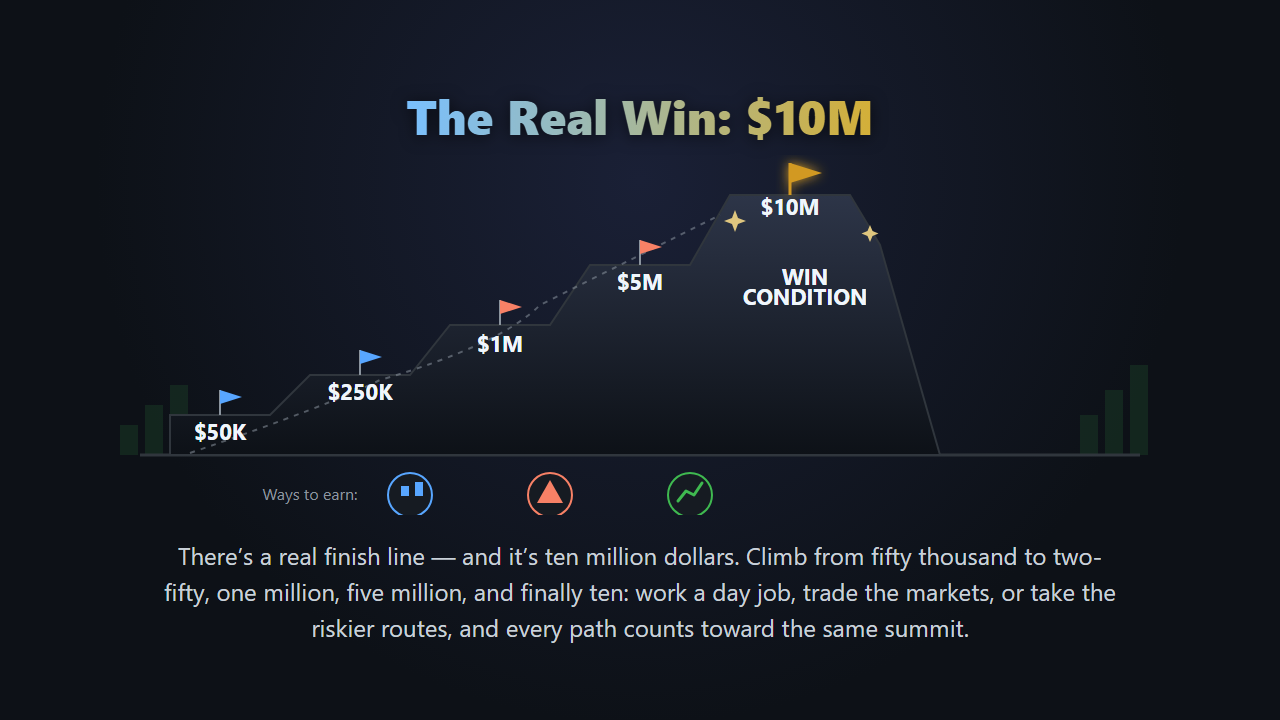
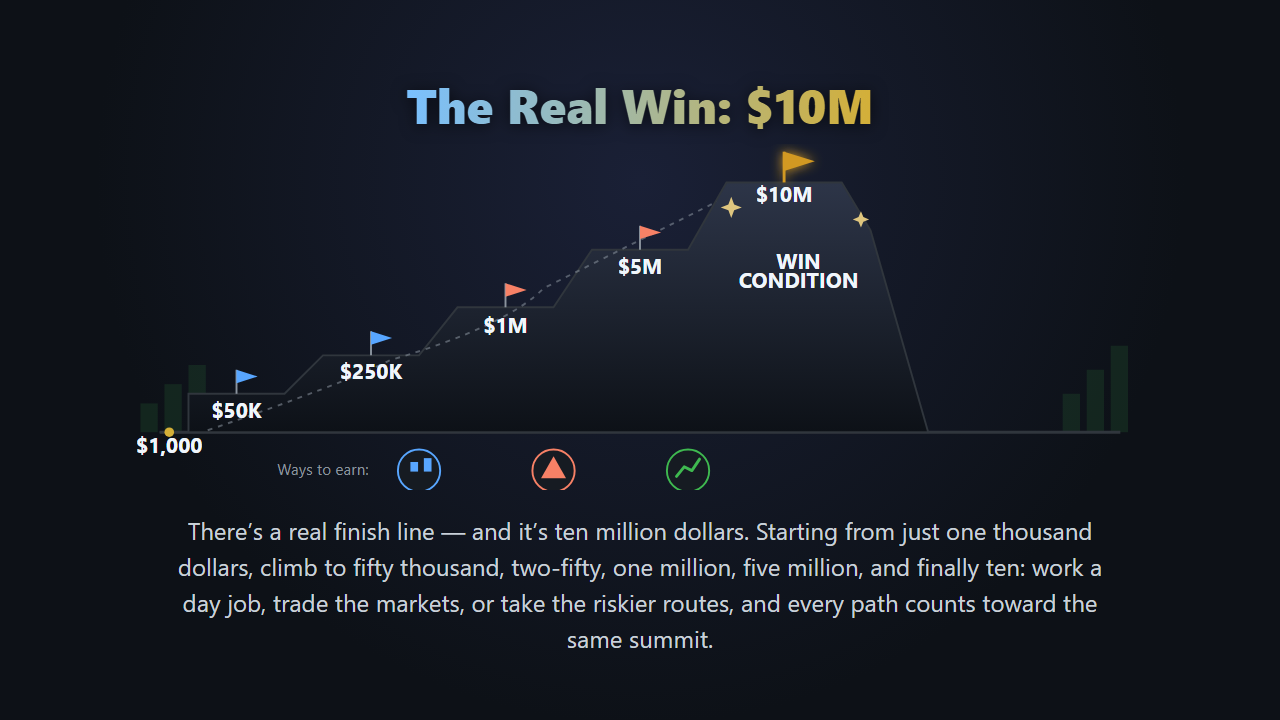
Set $1,000 starting capital on slides 1/4; rescope slide 6 to crime/dating-sim/interiors
Slides 1 and 4 now show the game starting from $1,000 net worth instead of
$0. Slide 6 drops the 30-day clock and win cutscene in favor of three
deeper-scope panels (crime system, dating sim, building interiors) while
keeping the six-item punch list, with project_proposal.md updated to match
the rescoped plan.

Claude-Session: https://claude.ai/code/session_01FPTtyZgp1csAeMHyfhBxcm

diff --git a/slides/slide_6.html b/slides/slide_6.html
@@ -2,7 +2,7 @@
 <html>
 <head>
 <meta charset="utf-8">
-<title>Slide 6 - What's Next: Fixes, a Clock, an Ending</title>
+<title>Slide 6 - What's Next: Crime, Dating Sim, Interiors</title>
 <style>
   body {
     margin: 0;
@@ -40,7 +40,7 @@
 </style>
 </head>
 <body>
-  <h1>What's Next: Fixes, a Clock, an Ending</h1>
+  <h1>What's Next: Crime, Dating Sim, Interiors</h1>
   <svg width="1140" height="400" viewBox="0 0 1140 400">
     <defs>
       <linearGradient id="panelGradient" x1="0" y1="0" x2="0" y2="1">
@@ -65,61 +65,41 @@
     </g>
     <text x="1010" y="42" text-anchor="middle" font-size="19" font-weight="bold" fill="#d29922">~6 DAYS LEFT</text>
 
-    <!-- LEFT PANEL: the new 30-day in-game clock -->
-    <rect x="30" y="72" width="520" height="190" rx="16" fill="url(#panelGradient)" stroke="#d29922" stroke-width="2.5" filter="url(#dropshadow)"/>
-    <text x="290" y="102" text-anchor="middle" class="box-label" font-size="21" fill="#d29922">NEW: 30-DAY CLOCK</text>
-
-    <g filter="url(#dropshadow)">
-      <rect x="60" y="120" width="92" height="128" rx="14" fill="#161b22" stroke="#30363d" stroke-width="3"/>
-      <rect x="70" y="134" width="72" height="88" rx="6" fill="#0d1117"/>
-    </g>
-    <text x="106" y="172" text-anchor="middle" font-size="30" font-weight="800" fill="#f0f6fc">30</text>
-    <text x="106" y="192" text-anchor="middle" font-size="11" fill="#8b949e">DAY LEFT</text>
-    <rect x="79" y="203" width="54" height="6" rx="3" fill="#30363d"/>
-    <rect x="79" y="203" width="17" height="6" rx="3" fill="#f85149"/>
-
-    <!-- pressing the existing End Day button, now docked from 30 instead of counting up forever -->
+    <!-- PANEL 1: Crime System expansion -->
+    <rect x="30" y="72" width="340" height="190" rx="16" fill="url(#panelGradient)" stroke="#f85149" stroke-width="2.5" filter="url(#dropshadow)"/>
+    <text x="200" y="102" text-anchor="middle" class="box-label" font-size="20" fill="#f85149">CRIME SYSTEM</text>
     <g filter="url(#glow)">
-      <rect x="182" y="148" width="116" height="44" rx="10" fill="#161b22" stroke="#d29922" stroke-width="2.5"/>
-      <text x="240" y="176" text-anchor="middle" font-size="17" font-weight="bold" fill="#d29922">END DAY</text>
+      <path d="M172 132 L200 120 L228 132 L228 160 Q228 182 200 194 Q172 182 172 160 Z" fill="#161b22" stroke="#f85149" stroke-width="2.5"/>
+      <rect x="197" y="138" width="6" height="26" rx="3" fill="#f85149"/>
+      <circle cx="200" cy="172" r="4.5" fill="#f85149"/>
     </g>
-    <!-- fingertip tapping the button -->
-    <path d="M312 132 L294 160" stroke="#c9d1d9" stroke-width="6" stroke-linecap="round"/>
-    <circle cx="312" cy="128" r="6" fill="#c9d1d9"/>
-    <!-- arrow from the button back to the counter -->
-    <path d="M178 170 L162 170" stroke="#f85149" stroke-width="2.5"/>
-    <path d="M162 170 L170 165 L170 175 Z" fill="#f85149"/>
-    <text x="170" y="145" text-anchor="middle" font-size="13" font-weight="bold" fill="#f85149">-1</text>
-    <text x="290" y="228" text-anchor="middle" font-size="14" fill="#c9d1d9">pressing End Day now costs a day off the clock</text>
-    <text x="290" y="250" text-anchor="middle" font-size="15" font-weight="bold" fill="#f85149">0 LEFT = GAME OVER</text>
+    <text x="200" y="225" text-anchor="middle" font-size="13" fill="#c9d1d9">bigger heists, sharper</text>
+    <text x="200" y="245" text-anchor="middle" font-size="13" fill="#c9d1d9">cop AI, real consequences</text>
 
-    <!-- RIGHT PANEL: win cutscene replacing the old prison tutorial -->
-    <rect x="590" y="72" width="520" height="190" rx="16" fill="url(#panelGradient)" stroke="#d4af37" stroke-width="2.5" filter="url(#dropshadow)"/>
-    <text x="850" y="102" text-anchor="middle" class="box-label" font-size="21" fill="#d4af37">NEW: WIN CUTSCENE</text>
-
-    <g filter="url(#glow)" transform="translate(636 120)">
-      <rect x="0" y="16" width="78" height="58" rx="6" fill="#161b22" stroke="#d4af37" stroke-width="2.5"/>
-      <path d="M0 16 L18 2 L96 2 L78 16 Z" fill="#161b22" stroke="#d4af37" stroke-width="2.5"/>
-      <path d="M15 16 L31 2" stroke="#d4af37" stroke-width="3"/>
-      <path d="M45 16 L61 2" stroke="#d4af37" stroke-width="3"/>
-      <path d="M75 16 L91 2" stroke="#d4af37" stroke-width="3"/>
-    </g>
-
-    <!-- triumphant figure at the win line -->
+    <!-- PANEL 2: Dating Sim expansion -->
+    <rect x="400" y="72" width="340" height="190" rx="16" fill="url(#panelGradient)" stroke="#f78166" stroke-width="2.5" filter="url(#dropshadow)"/>
+    <text x="570" y="102" text-anchor="middle" class="box-label" font-size="20" fill="#f78166">DATING SIM</text>
     <g filter="url(#glow)">
-      <circle cx="800" cy="155" r="10" fill="#ffe08a"/>
-      <path d="M786 170 Q800 150 814 170 L810 205 L790 205 Z" fill="#ffe08a"/>
-      <line x1="787" y1="173" x2="772" y2="153" stroke="#ffe08a" stroke-width="3" stroke-linecap="round"/>
-      <line x1="813" y1="173" x2="828" y2="153" stroke="#ffe08a" stroke-width="3" stroke-linecap="round"/>
+      <circle cx="546" cy="118" r="5" fill="#f78166"/>
+      <path d="M539 126 L553 126 L551 140 L541 140 Z" fill="#f78166"/>
+      <circle cx="594" cy="118" r="5" fill="#f78166"/>
+      <path d="M587 126 L601 126 L599 140 L589 140 Z" fill="#f78166"/>
+      <path d="M570,175 C530,145 550,115 570,140 C590,115 610,145 570,175 Z" fill="#f78166"/>
     </g>
+    <text x="570" y="225" text-anchor="middle" font-size="13" fill="#c9d1d9">romance paths across</text>
+    <text x="570" y="245" text-anchor="middle" font-size="13" fill="#c9d1d9">the full NPC roster</text>
 
-    <text x="945" y="155" text-anchor="middle" font-size="26" font-weight="800" fill="#d4af37">$10M</text>
-    <text x="945" y="182" text-anchor="middle" font-size="14" fill="#c9d1d9">crossing the line plays the ending</text>
-    <text x="850" y="240" text-anchor="middle" font-size="13" fill="#8b949e">a scripted finale for every winning run</text>
-    <g fill="#ffe08a" opacity="0.85">
-      <path d="M700 92 l3 8 l8 3 l-8 3 l-3 8 l-3 -8 l-8 -3 l8 -3 z"/>
-      <path d="M1000 96 l2.5 6 l6 2.5 l-6 2.5 l-2.5 6 l-2.5 -6 l-6 -2.5 l6 -2.5 z"/>
+    <!-- PANEL 3: Building Interiors art pass -->
+    <rect x="770" y="72" width="340" height="190" rx="16" fill="url(#panelGradient)" stroke="#d29922" stroke-width="2.5" filter="url(#dropshadow)"/>
+    <text x="940" y="102" text-anchor="middle" class="box-label" font-size="20" fill="#d29922">BUILDING INTERIORS</text>
+    <g filter="url(#glow)">
+      <path d="M940 175 C920 165 918 135 940 120" stroke="#d29922" stroke-width="3" fill="none" stroke-linecap="round"/>
+      <path d="M940 175 C940 150 940 125 940 110" stroke="#d29922" stroke-width="3" fill="none" stroke-linecap="round"/>
+      <path d="M940 175 C960 165 962 135 940 120" stroke="#d29922" stroke-width="3" fill="none" stroke-linecap="round"/>
+      <path d="M925 175 L955 175 L950 195 L930 195 Z" fill="#d29922"/>
     </g>
+    <text x="940" y="225" text-anchor="middle" font-size="13" fill="#c9d1d9">art pass on every hub's</text>
+    <text x="940" y="245" text-anchor="middle" font-size="13" fill="#c9d1d9">interior, not just exterior</text>
 
     <!-- BOTTOM: the six-item punch list -->
     <text x="30" y="288" font-size="16" fill="#8b949e" font-weight="bold">SIX-ITEM PUNCH LIST</text>
@@ -154,7 +134,7 @@
     <text x="480" y="327" text-anchor="middle" font-size="14" font-weight="bold" fill="#d29922">3</text>
     <text x="480" y="392" text-anchor="middle" font-size="14" fill="#c9d1d9">Casino / Arcade</text>
 
-    <!-- 4: Crime loop (car theft to police to jail to bribe/puzzle) -->
+    <!-- 4: Crime system (car theft to police to jail to bribe/puzzle, expanded) -->
     <circle cx="660" cy="345" r="28" fill="#161b22" stroke="#f85149" stroke-width="2.5"/>
     <circle cx="660" cy="333" r="4.5" fill="#f85149"/>
     <path d="M654 340 L666 340 L665 353 L655 353 Z" fill="#f85149"/>
@@ -163,7 +143,7 @@
     <line x1="653" y1="350" x2="655" y2="350" stroke="#f85149" stroke-width="2"/>
     <circle cx="638" cy="323" r="12" fill="#161b22" stroke="#f85149" stroke-width="2"/>
     <text x="638" y="327" text-anchor="middle" font-size="14" font-weight="bold" fill="#f85149">4</text>
-    <text x="660" y="392" text-anchor="middle" font-size="14" fill="#c9d1d9">Crime Loop</text>
+    <text x="660" y="392" text-anchor="middle" font-size="14" fill="#c9d1d9">Crime System</text>
 
     <!-- 5: Church - done -->
     <circle cx="840" cy="345" r="28" fill="#161b22" stroke="#58a6ff" stroke-width="2.5"/>
@@ -178,7 +158,7 @@
     </g>
     <text x="840" y="392" text-anchor="middle" font-size="14" fill="#c9d1d9">Church — Done</text>
 
-    <!-- 6: Lisa romance path -->
+    <!-- 6: Dating sim (Lisa path verified, expanded to more of the roster) -->
     <circle cx="1020" cy="345" r="28" fill="#161b22" stroke="#f78166" stroke-width="2.5"/>
     <circle cx="1012" cy="333" r="4" fill="#f78166"/>
     <path d="M1007 339 L1017 339 L1016 351 L1008 351 Z" fill="#f78166"/>
@@ -187,8 +167,8 @@
     <path d="M1020 358 c-5,-6 -15,-2 -15,6 c0,6 8,10 15,16 c7,-6 15,-10 15,-16 c0,-8 -10,-12 -15,-6 z" fill="#f78166"/>
     <circle cx="998" cy="323" r="12" fill="#161b22" stroke="#f78166" stroke-width="2"/>
     <text x="998" y="327" text-anchor="middle" font-size="14" font-weight="bold" fill="#f78166">6</text>
-    <text x="1020" y="392" text-anchor="middle" font-size="14" fill="#c9d1d9">Lisa Romance</text>
+    <text x="1020" y="392" text-anchor="middle" font-size="14" fill="#c9d1d9">Dating Sim</text>
   </svg>
-  <p class="caption">With six production days left, we're landing one win cutscene at ten million dollars, plus a punch list across storyline, exchange, casino, crime, church, and romance. The day counter is now capped at thirty, dropping one per End Day press — running out ends the game.</p>
+  <p class="caption">With about six production days left, we're pushing deeper on three systems — crime, dating sim, and building interiors — while continuing to polish the full six-item punch list: storyline, exchange, casino, crime system, church, and dating sim.</p>
 </body>
 </html>

diff --git a/slides/slide_4.html b/slides/slide_4.html
@@ -84,6 +84,10 @@
     <path d="M110,298 Q 250,250 300,225 Q 420,190 460,150 Q 560,100 640,60"
           fill="none" stroke="#8b949e" stroke-width="2" stroke-dasharray="5,6" opacity="0.55"/>
 
+    <!-- starting capital marker -->
+    <circle cx="70" cy="300" r="5" fill="#d4af37"/>
+    <text x="70" y="322" text-anchor="middle" class="box-label" font-size="17" fill="#d4af37">$1,000</text>
+
     <text x="140" y="285" text-anchor="middle" class="box-label" font-size="19">$50K</text>
     <text x="280" y="245" text-anchor="middle" class="box-label" font-size="19">$250K</text>
     <text x="420" y="197" text-anchor="middle" class="box-label" font-size="19">$1M</text>
@@ -130,6 +134,6 @@
     <text x="470" y="378" text-anchor="middle" font-size="14" fill="#8b949e">risk it</text>
     <text x="610" y="378" text-anchor="middle" font-size="14" fill="#8b949e">invest</text>
   </svg>
-  <p class="caption">There’s a real finish line — and it’s ten million dollars. Climb from fifty thousand to two-fifty, one million, five million, and finally ten: work a day job, trade the markets, or take the riskier routes, and every path counts toward the same summit.</p>
+  <p class="caption">There’s a real finish line — and it’s ten million dollars. Starting from just one thousand dollars, climb to fifty thousand, two-fifty, one million, five million, and finally ten: work a day job, trade the markets, or take the riskier routes, and every path counts toward the same summit.</p>
 </body>
 </html>

diff --git a/slides/slide_1.html b/slides/slide_1.html
@@ -2,7 +2,7 @@
 <html>
 <head>
 <meta charset="utf-8">
-<title>Slide 1 - Capital Syndicate: $0 to $10M</title>
+<title>Slide 1 - Capital Syndicate: $1,000 to $10M</title>
 <style>
   body {
     margin: 0;
@@ -41,7 +41,7 @@
 </head>
 <body>
   <h1>Capital Syndicate</h1>
-  <div class="caption" style="margin-top:-4px; margin-bottom:14px; font-size:22px; font-weight:700; color:#d4af37; letter-spacing:2px;">$0 &#8594; $10M</div>
+  <div class="caption" style="margin-top:-4px; margin-bottom:14px; font-size:22px; font-weight:700; color:#d4af37; letter-spacing:2px;">$1,000 &#8594; $10M</div>
   <svg width="1140" height="330" viewBox="0 0 1140 330">
     <defs>
       <linearGradient id="panelGradient" x1="0" y1="0" x2="0" y2="1">

diff --git a/project_proposal.md b/project_proposal.md
@@ -39,40 +39,39 @@ Two layers, distinct from each other:
 
 ### Scope of Work for This Milestone (revised — ~6 days remaining of the August 3–12 window)
 
-The original plan for this milestone was a from-scratch prison-tutorial prologue world (opening scene + 3 in-prison minigames) plus a general polish pass. With roughly 6 days left of the original 9–10-day window, a brand-new hand-authored world is too much to responsibly finish, so the milestone is re-scoped: drop the new prologue world in favor of a much smaller narrative capstone, and redirect the freed-up time into a prioritized punch-list across the six systems the game's own pitch already leans on. Naming and re-scoping this in the open, rather than quietly letting the prison world slip, is the same discipline this proposal already argues for elsewhere.
-
-**Narrative capstone — a win cutscene, not a new prologue world.** Replace the planned prison-tutorial prologue with a single scripted cutscene that plays when the player crosses the $10M win threshold. It closes the loop the Storyline item below sets up (why the player is chasing $10M at all) without the multi-day cost of building and testing an entirely new hand-authored area from zero.
+The original plan for this milestone was a from-scratch prison-tutorial prologue world (opening scene + 3 in-prison minigames) plus a general polish pass. With roughly 6 days left of the original 9–10-day window, a brand-new hand-authored world is too much to responsibly finish, so the milestone was first re-scoped to drop the prologue world in favor of a smaller narrative capstone (a win cutscene) and a new 30-day clock mechanic. On a second pass, that capstone and clock were themselves cut: rather than spend the freed-up time on a scripted ending and a new pacing mechanic, it goes toward going deeper on three systems the game's own pitch already leans on hardest — crime, dating sim, and building interiors — on top of the prioritized six-item punch-list below. Naming and re-scoping this in the open, twice now, rather than quietly letting scope slip, is the same discipline this proposal already argues for elsewhere.
 
 **Six-item punch-list, in priority order:**
 
-1. **Storyline** — tighten the throughline that gives the player a reason to chase $10M and pays it off in the new win cutscene, replacing the prison world's job of carrying the narrative.
+1. **Storyline** — tighten the throughline that gives the player a reason to chase $10M, replacing the prison world's job of carrying the narrative.
 2. **Stock exchange** — a further correctness/behavior audit of the existing exchange (pricing, short-selling, risk meter) beyond what's already shipped; fix whatever the audit turns up.
 3. **Arcade/Casino** — add additional minigames to the casino/arcade hub, on top of the existing Blackjack/Poker/Slots/Russian Roulette set.
-4. **Crime loop polish (car theft to police to jail to bribe/puzzle)** — this flow already exists end-to-end and is not being rebuilt; the work is straightening its sequencing/logic so the flee-or-bribe, then jail, then bribe-or-puzzle path plays correctly.
+4. **Crime system expansion (car theft to police to jail to bribe/puzzle)** — straighten the existing flow's sequencing/logic so the flee-or-bribe, then jail, then bribe-or-puzzle path plays correctly, then go further: broaden heist variety and sharpen cop AI/consequences rather than stopping at a fix pass.
 5. **Church (Whispering Temple Chapel)** — done; carried forward from prior work and verified complete, not new work for this milestone.
-6. **Lisa romance path** — verify the existing dating/chat flow with this NPC actually works end-to-end; fix if it doesn't.
+6. **Dating sim expansion** — verify the existing Lisa dating/chat flow works end-to-end, then extend the romance/chat system to more of the 76-NPC roster rather than stopping at the one confirmed path.
 
-**New mechanic: a 30-day clock.** The game already tracks days and has an "End Day" action that resolves the current day and advances to the next, counting up indefinitely from Day 1. This milestone caps that: it becomes a 30-day countdown — an in-game "Day Left: 30" counter that starts at 30 and drops by one each time the player presses End Day. Reaching 0 days left ends the game (game over) regardless of net worth — real time pressure on a loop that was previously open-ended.
+**New: building-interiors art pass.** On top of the six-item list, use part of the freed-up time to run an interior art pass across the hub buildings (Tokyo Stock Exchange, Neon Dragon Casino, Bank & Realty Office, and the rest) so each hub's interior looks considered rather than placeholder, on top of the existing exterior/landmark art already shipped.
 
-Items 5 and 6 are quick verification passes and unlikely to slip. If time runs short, item 3 (additional casino minigames) is the one to compress first — it's additive scope, not a fix to something already broken. Item 1 (storyline) and the 30-day clock are not cut candidates: together they're what turn the $10M goal into a game with stakes, rather than an open-ended sandbox.
+Item 5 is a quick verification pass and unlikely to slip. If time runs short, item 3 (additional casino minigames) is the first to compress — it's additive scope, not a fix to something already broken — followed by the building-interiors art pass, which is additive polish rather than a system fix. Item 1 (storyline) and the crime-system and dating-sim expansions (items 4 and 6) are not cut candidates: together with the existing systems, they're what the remaining time is now built around.
 
 ### Explicitly Out of Scope for This Milestone
 
-The prison-tutorial prologue world (opening scene + 3 in-prison minigames) originally planned for this milestone is now explicitly descoped in favor of the lighter win-cutscene capstone above — deferred as a possible future milestone if there's appetite for a full prologue world later, not abandoned as a concept. Ambient background music, the decision on how far to extend the free-text NPC chat backend, the Food Center energy-top-up hook, a full Dock/Pier hub building (fishing itself already works as a standalone activity; a dedicated hub around it does not), and reviving the built-but-dormant Hunter's Rift / Yu-Gi-Oh / Domino City worlds (unreachable by design, not by bug) remain real, tracked backlog items but are not attempted here. The Entertainment Complex remains deferred by existing design decision. The Social-feed-to-price sentiment-engine tie-in, NPC vehicle traffic restoration, and ambient-roster expansion are deferred to a future milestone, not abandoned. Naming and deferring these is itself part of the scoping discipline this proposal is demonstrating.
+The prison-tutorial prologue world (opening scene + 3 in-prison minigames) originally planned for this milestone is explicitly descoped — deferred as a possible future milestone if there's appetite for a full prologue world later, not abandoned as a concept. The win cutscene and the 30-day clock, both planned in an earlier revision of this milestone, are also now descoped in favor of going deeper on the crime, dating-sim, and building-interiors work above — deferred, not abandoned. Ambient background music, the decision on how far to extend the free-text NPC chat backend, the Food Center energy-top-up hook, a full Dock/Pier hub building (fishing itself already works as a standalone activity; a dedicated hub around it does not), and reviving the built-but-dormant Hunter's Rift / Yu-Gi-Oh / Domino City worlds (unreachable by design, not by bug) remain real, tracked backlog items but are not attempted here. The Entertainment Complex remains deferred by existing design decision. The Social-feed-to-price sentiment-engine tie-in, NPC vehicle traffic restoration, and ambient-roster expansion are deferred to a future milestone, not abandoned. Naming and deferring these is itself part of the scoping discipline this proposal is demonstrating.
 
 ### Success Criteria
 
 - `npm run build` and `npm run lint` (oxlint) stay clean (0 errors).
-- The 30-day clock is live: the counter shows "Day Left: 30", pressing End Day drops it by one, and reaching 0 triggers game over — confirmed in a live playthrough.
-- Reaching $10M net worth plays the new win cutscene — confirmed live, not just structurally.
-- Each of the six punch-list items has a one-line record of what changed, verified live (screenshot or recorded), not claimed from a diff — including explicit confirmation that the church hub is complete and the Lisa romance path works end-to-end.
-- A recorded demo exists showing the 30-day clock, the win cutscene, and at least one polished punch-list item, as raw material for the video-reel agent, and it matches what this proposal describes.
+- Crime system: the existing car-theft-to-jail flow plays correctly end-to-end, plus at least one new heist variant or cop-AI/consequence improvement beyond the existing set — confirmed in a live playthrough.
+- Dating sim: the Lisa dating/chat flow works end-to-end, and the romance/chat system is confirmed working with at least one additional NPC beyond Lisa — confirmed live.
+- Building interiors: a visible art pass lands on at least a handful of hub interiors (e.g., Tokyo Stock Exchange, Neon Dragon Casino, Bank & Realty Office) beyond placeholder — confirmed via screenshot.
+- Each of the six punch-list items has a one-line record of what changed, verified live (screenshot or recorded), not claimed from a diff — including explicit confirmation that the church hub is complete and the dating-sim path works end-to-end.
+- A recorded demo exists showing the crime-system expansion, the dating-sim expansion, and at least one polished interior, as raw material for the video-reel agent, and it matches what this proposal describes.
 - Every item above has a one-line record of which specialist agent produced it, as evidence of real multi-agent orchestration rather than a single monolithic assistant.
 
 ### Risks
 
-- **Re-scoping mid-milestone can look like scope failure instead of scope discipline.** Mitigated by naming the prison-world cut explicitly (see Out of Scope) rather than letting it quietly disappear.
-- **The 30-day clock changes game balance** — 30 days may be too tight or too loose against the existing economy loop, since reaching $50k–$10M takes real in-game time. Mitigated by playtesting the full loop against the new clock before finalizing 30 as the number, per the game-designer agent role.
-- **The "check and fix" items (stock exchange, crime-loop flow, Lisa romance) are diagnostic by nature** — each could turn out bigger once actually verified live. Mitigated by time-boxing the audit pass before committing to a fix scope, so a deep bug doesn't silently eat the whole milestone.
+- **Re-scoping mid-milestone, twice now, can look like scope failure instead of scope discipline.** Mitigated by naming both cuts explicitly (see Out of Scope) — the prison world, then the win cutscene/30-day clock — rather than letting either quietly disappear.
+- **Expanding three systems (crime, dating sim, interiors) in the same ~6 days as the six-item punch list risks doing everything shallowly rather than a smaller set well.** Mitigated by the pre-declared compression order above (casino minigames, then the interiors art pass, compress first; storyline and the crime/dating-sim expansions are not cut candidates).
+- **The crime-system and dating-sim items are diagnostic before they're additive** — each starts with verifying an existing flow, which could turn out bigger once actually checked live, eating into the time meant for the "go further" half of the work. Mitigated by time-boxing the verification pass before committing to how much expansion is realistic.
 - **Additional casino minigames are the one genuinely open-ended, scope-creep-shaped item** in this list, the same way "polish" was in the prior milestone. Mitigated by pre-declaring it the first item to compress if time is short.
 - **Visual/behavioral bugs are hard to verify without a human eye** (a documented failure mode from earlier in this project: passing structural or lint checks isn't the same as looking or working right) — mitigated by mandatory live-browser/screenshot confirmation before calling any item done, per the project's own QA-tester agent role.
